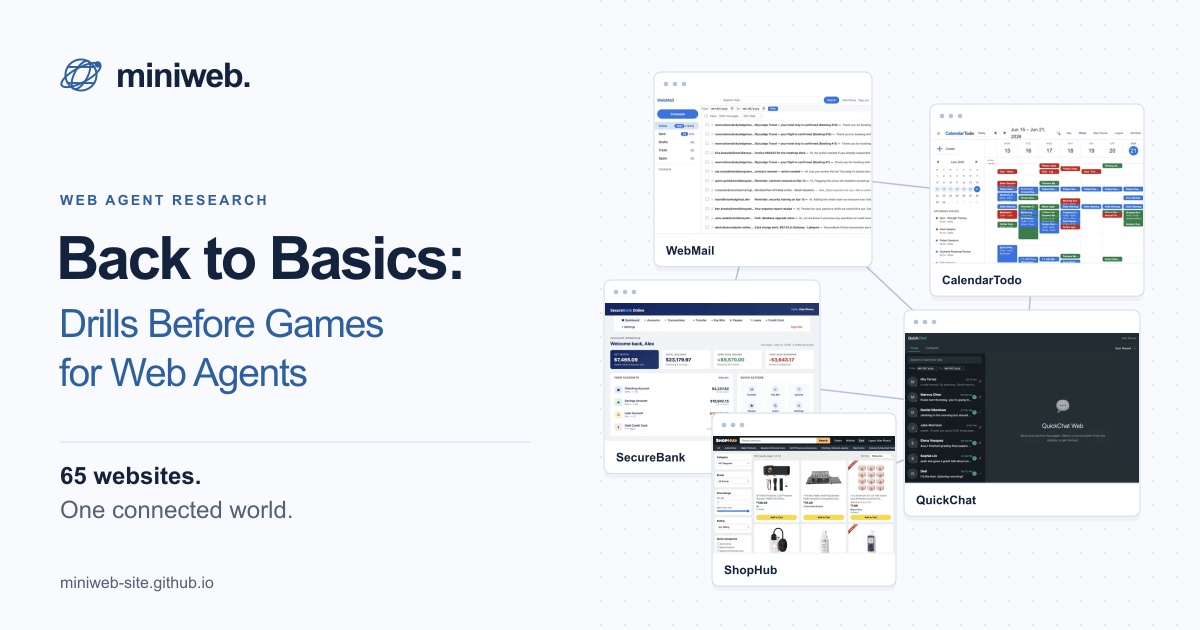
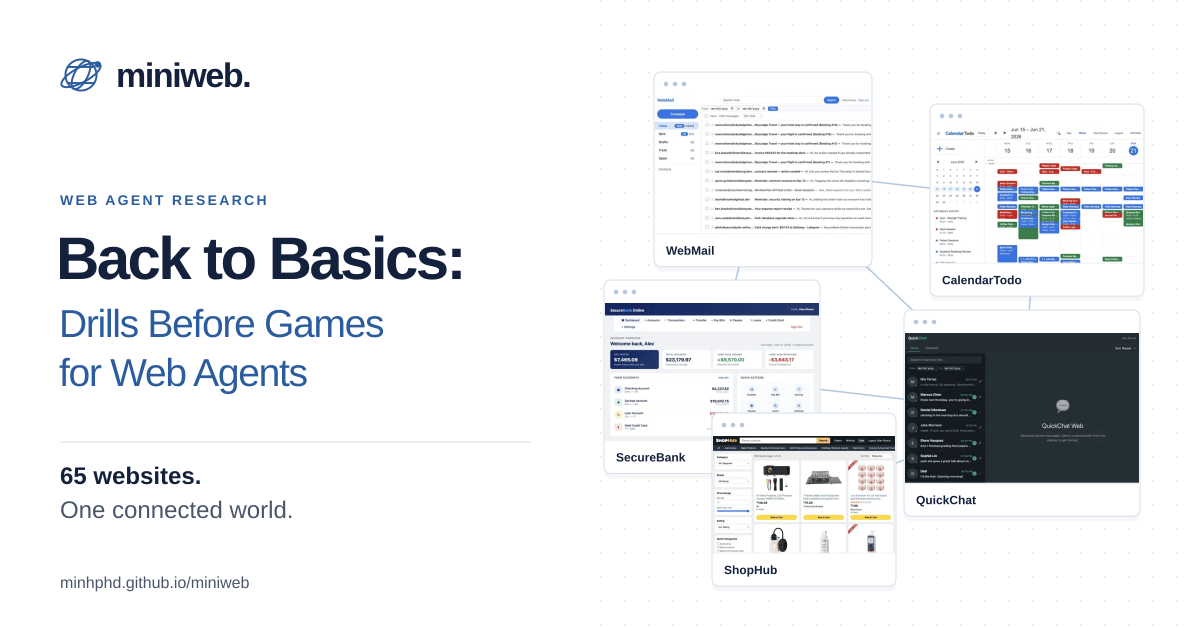
Move the website to minhphd.github.io/miniweb
Canonical and share-preview links, the README, the standalone structure explorer's links and the address printed
on the share image now use https://minhphd.github.io/miniweb/.

Claude-Session: https://claude.ai/code/session_01RnHqwfNz7WH8EmXGFqb2JM

diff --git a/index.html b/index.html
@@ -5,13 +5,13 @@
     <meta name="viewport" content="width=device-width, initial-scale=1.0" />
     <meta name="theme-color" content="#ffffff" />
     <meta name="description" content="Back to Basics: Drills Before Games for Web Agents. Explore MiniWeb's 65 connected websites and learn how targeted skill practice and planning improve compact web agents." />
-    <link rel="canonical" href="https://miniweb-site.github.io/" />
+    <link rel="canonical" href="https://minhphd.github.io/miniweb/" />
     <meta property="og:type" content="website" />
     <meta property="og:site_name" content="MiniWeb" />
-    <meta property="og:url" content="https://miniweb-site.github.io/" />
+    <meta property="og:url" content="https://minhphd.github.io/miniweb/" />
     <meta property="og:title" content="MiniWeb — Back to Basics: Drills Before Games for Web Agents" />
     <meta property="og:description" content="Explore 65 connected websites and discover how skill practice and planning improve compact web agents." />
-    <meta property="og:image" content="https://miniweb-site.github.io/social-preview.png" />
+    <meta property="og:image" content="https://minhphd.github.io/miniweb/social-preview.png" />
     <meta property="og:image:type" content="image/png" />
     <meta property="og:image:width" content="1200" />
     <meta property="og:image:height" content="630" />
@@ -19,7 +19,7 @@
     <meta name="twitter:card" content="summary_large_image" />
     <meta name="twitter:title" content="MiniWeb — Back to Basics: Drills Before Games for Web Agents" />
     <meta name="twitter:description" content="Explore 65 connected websites and discover how skill practice and planning improve compact web agents." />
-    <meta name="twitter:image" content="https://miniweb-site.github.io/social-preview.png" />
+    <meta name="twitter:image" content="https://minhphd.github.io/miniweb/social-preview.png" />
     <meta name="twitter:image:alt" content="MiniWeb — Back to Basics: Drills Before Games for Web Agents, with connected previews of MiniWeb websites." />
     <link rel="icon" type="image/svg+xml" href="/favicon.svg" />
     <title>MiniWeb — Back to Basics: Drills Before Games for Web Agents</title>

diff --git a/README.md b/README.md
@@ -27,8 +27,8 @@ The static build is in `dist/` and is compatible with GitHub Pages. Vite uses re
 
 The [GitHub Pages workflow](.github/workflows/deploy.yml) installs dependencies, runs the tests, builds all HTML entry points, and deploys `dist/` on every push to `main`. It can also be run manually from the repository's Actions tab. In **Settings → Pages → Build and deployment**, the publishing source must be **GitHub Actions**.
 
-- Website: https://miniweb-site.github.io/
-- Separate design explorer: https://miniweb-site.github.io/design-explorer.html
+- Website: https://minhphd.github.io/miniweb/
+- Separate design explorer: https://minhphd.github.io/miniweb/design-explorer.html
 
 The workflow uses Node.js 22. Generated build output stays out of Git; edit the source files and push to `main` to publish an update. Deployment status and logs appear in the **Deploy to GitHub Pages** workflow.
 
